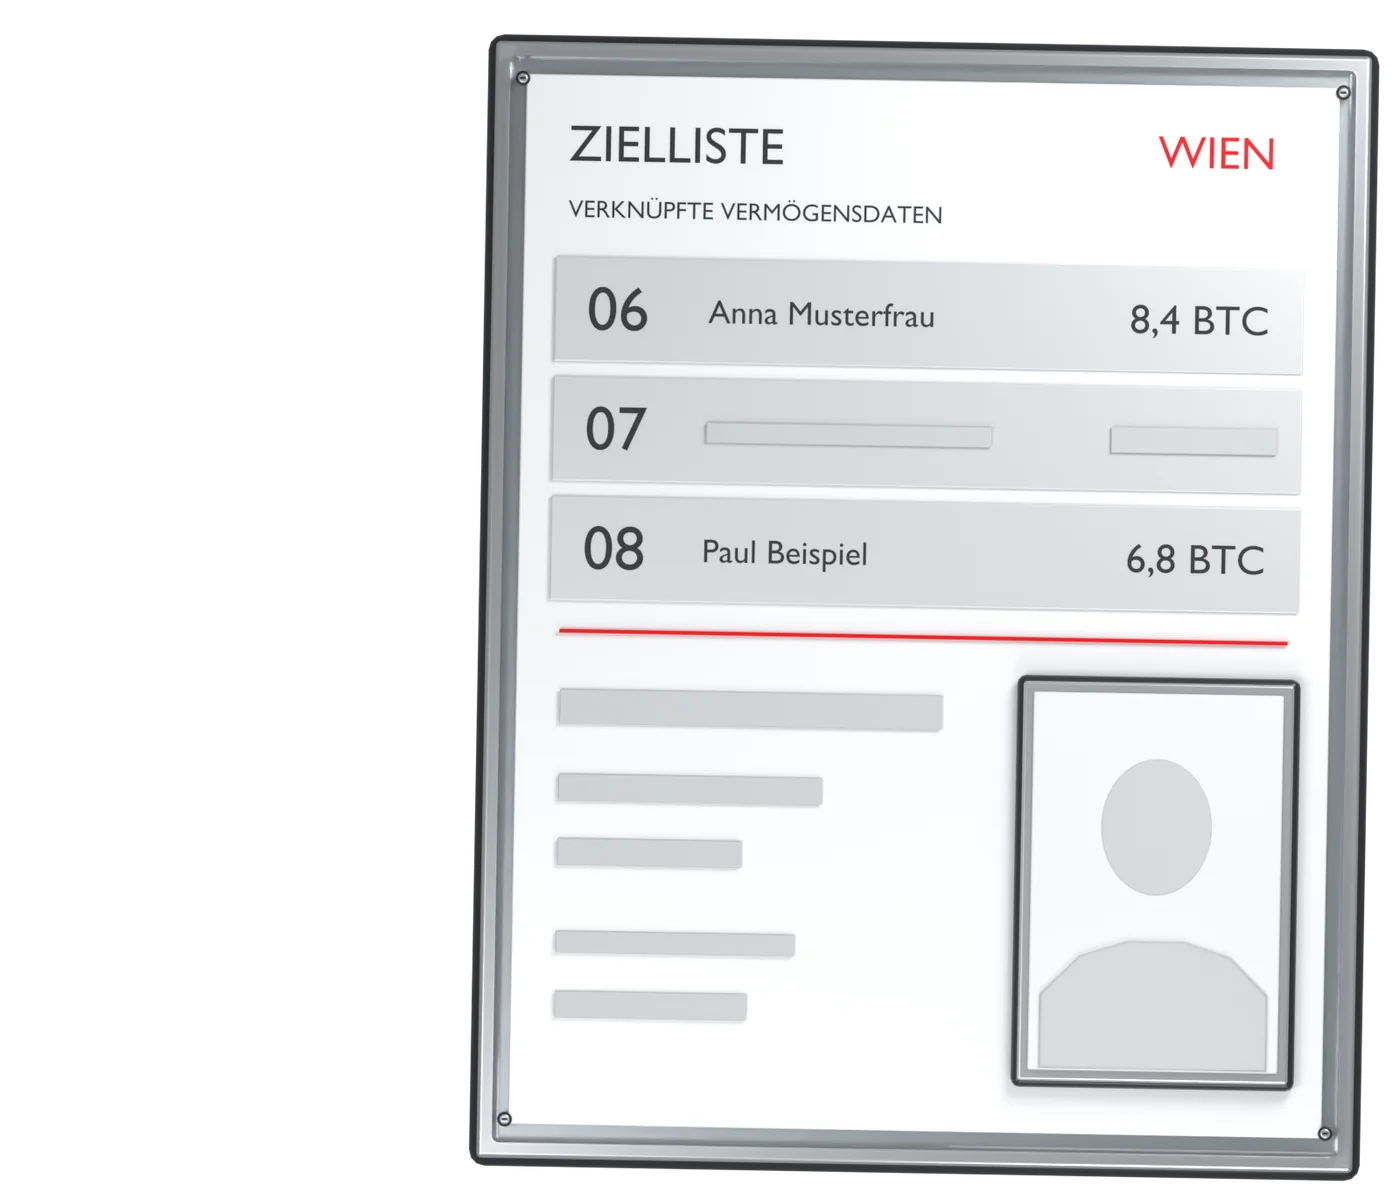
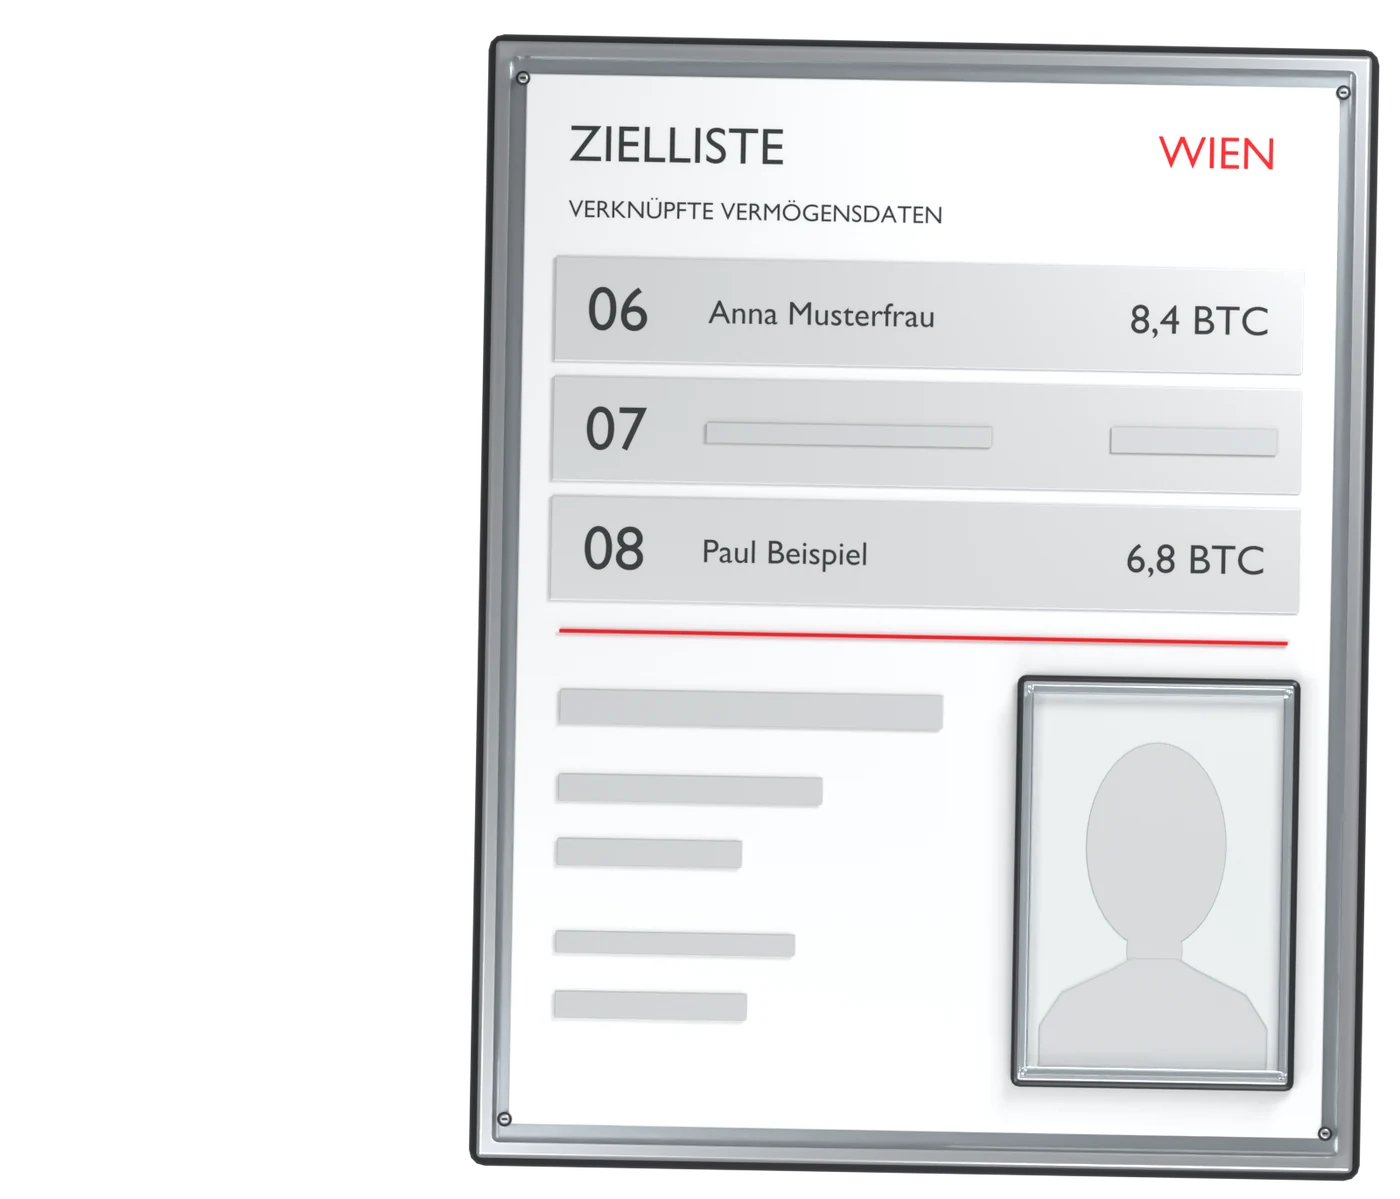
Show the linked profile's Max on the network and the target list
The owner's Max is the man in the portrait on the leaks page's linked
profile (target-at-home): short side-parted hair, thin oval glasses, a
calm face, a grey collared shirt. The network's avatar, with its glossy
dark dome of hair, read like a cap and so like a burglar, and the target
list printed a re-render of that avatar.

From artwork-lab (build_dac8_max_avatar.py, build_dac8_target_plate.py):
the network's Max is now that portrait's man as a clay bust on the red
plinth, fitted like the other icons, and the target list prints the
portrait itself, as on the linked profile. The empty plate shows his
outline where the photo will appear. The plate's frame and regions are
unchanged.

Changed region(s): [[0.7064, 0.5555, 0.9214, 0.9258]]

diff --git a/src/data/target-plate.ts b/src/data/target-plate.ts
@@ -10,13 +10,16 @@ import layout from "@/data/target-plate.json"
 // The target list at the end of the data story's leak scene, rendered by
 // artwork-lab's knowledge/build_dac8_target_plate.py: a plate with the
 // ranks 06 to 08 and Max at 07, with his photo, home address and annual
-// reports. The empty plate shows Max's parts as grey bars; each leak reveals
-// its parts of the filled plate. The wrench is a layer of its own, rendered
-// to the left of the plate. All
-// layers share one frame, so they stack exactly; target-plate.json is the
-// lab's regions.json: the frame's size in pixels and where each part sits,
-// as shares of the frame (left, top, width, height). Re-export the images
-// and the JSON together.
+// reports. The photo is the portrait from the linked profile in
+// src/assets/artwork/target-at-home.webp, the one Max of every picture: the
+// network's avatar (you.webp) and the bedroom (mattress.webp) show the same
+// man in the round. The empty plate shows Max's parts as grey bars and his
+// outline where the photo goes; each leak reveals its parts of the filled
+// plate. The wrench is a layer of its own, rendered to the left of the
+// plate. All layers share one frame, so they stack exactly;
+// target-plate.json is the lab's regions.json: the frame's size in pixels
+// and where each part sits, as shares of the frame (left, top, width,
+// height). Re-export the images and the JSON together.
 export type PlatePart = "rank" | "photo" | "name" | "address" | "reports"
 
 type Box = [number, number, number, number]
